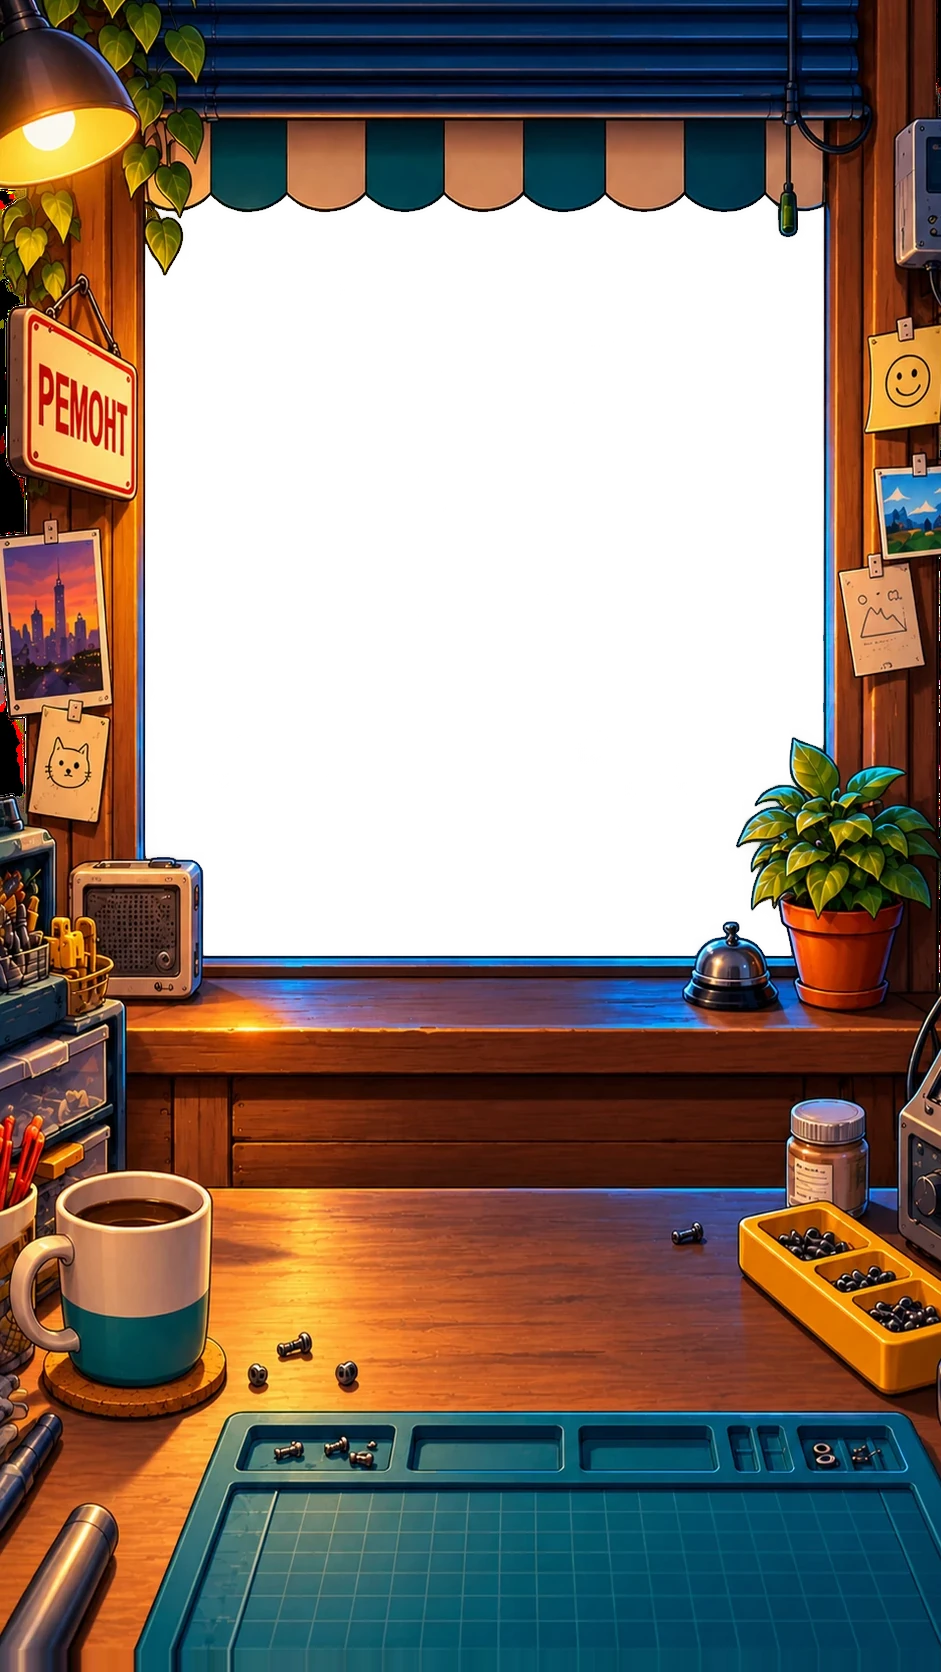
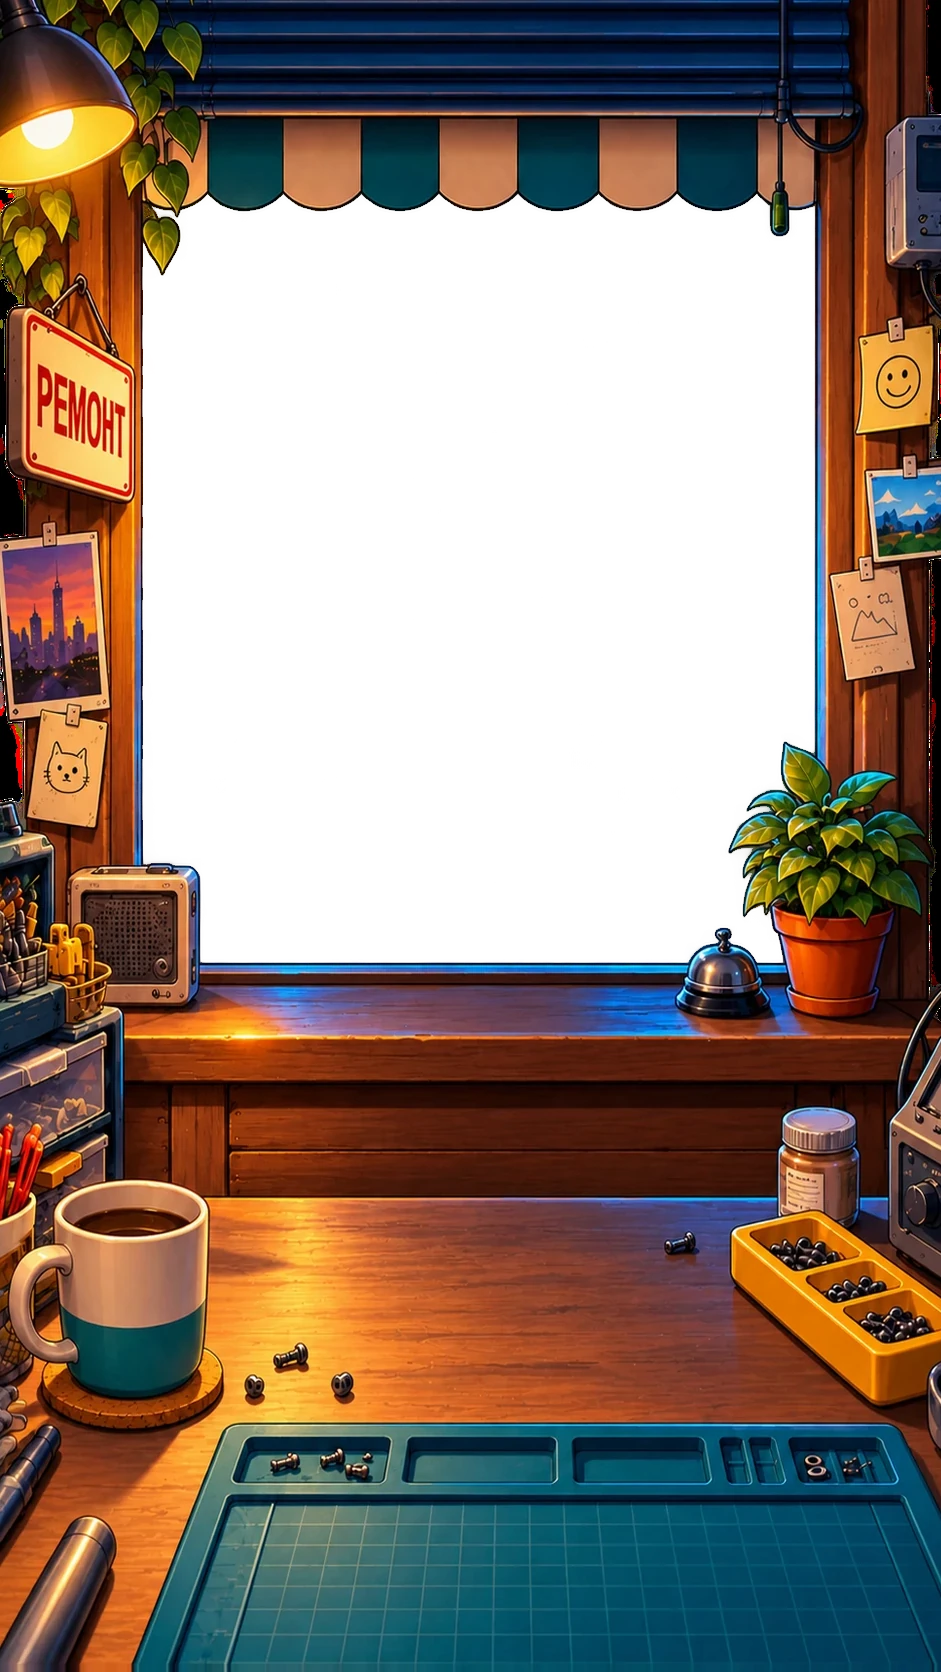
The shutter shows only through the window
The closed pictures go under the open room, so the awning, frame and counter stay the room's own and their slightly
different awning no longer doubles at the top. The night room is lined up with the day one by its details.

Claude-Session: https://claude.ai/code/session_01WJGFWXUd94yv5hf5kEfw4n

Changed region(s): [[0.0, 0.0, 1.0, 1.0]]

diff --git a/game/index.html b/game/index.html
@@ -2722,15 +2722,16 @@ function drawStreet() {
     // the room by day, evening and night (drawn pictures carry their own light; the tint covers what is still the evening one)
     const { day, night } = dayNight(), at = [m.x(0), m.y(0), 941 * m.s, 1672 * m.s];
     const layers = (names, alpha) => names.forEach((n, i) => { if (i && !(alpha[i] > 0 && artOk(ART[n]))) return; fg.globalAlpha = i ? alpha[i] : 1; fg.drawImage(artOk(ART[n]) ? ART[n] : ART.kiosk, ...at); });
+    // the shutter rolls down behind the awning: the closed pictures go first, slid down inside the window, and the open
+    // room goes over them, so they show only through the window hole and the awning, frame and counter stay the room's own
+    if (shut > 0 && artOk(ART.kiosk_closed)) {
+      const wy = m.y(150), wh = (975 - 150) * m.s, dy = -(1 - shut) * wh;
+      fg.save(); fg.beginPath(); fg.rect(0, wy, W, wh * shut + 1); fg.clip(); fg.translate(0, dy);
+      layers(['kiosk_closed', 'kiosk_closed_day', 'kiosk_closed_night'], [1, day, night]); fg.restore(); fg.globalAlpha = 1;
+    }
     layers(['kiosk', 'kiosk_day', 'kiosk_night'], [1, day, night]); fg.globalAlpha = 1;
     const left = Math.max(0, 1 - (artOk(ART.kiosk_day) ? day : 0) - (artOk(ART.kiosk_night) ? night : 0));
     fg.save(); fg.globalCompositeOperation = 'source-atop'; multiply(fg, [...L.room.slice(0, 3), L.room[3] * left], 0, 0, W, H); fg.restore();
-    // the shutter rolls down over the window: the closed pictures, slid down inside the window frame
-    if (shut > 0 && artOk(ART.kiosk_closed)) {
-      const wx = m.x(130), wy = m.y(150), ww = (850 - 130) * m.s, wh = (975 - 150) * m.s, dy = -(1 - shut) * wh;
-      fg.save(); fg.beginPath(); fg.rect(wx, wy, ww, wh * shut + 1); fg.clip(); fg.translate(0, dy);
-      layers(['kiosk_closed', 'kiosk_closed_day', 'kiosk_closed_night'], [1, day, night]); fg.restore(); fg.globalAlpha = 1;
-    }
   }
   else { fg.fillStyle = '#4b2f1c'; fg.beginPath(); fg.rect(0, 0, W, H); fg.rect(win.x + win.w, win.y, -win.w, win.h); fg.fill('evenodd'); }
   STREET.win = win; STREET.top = top;
